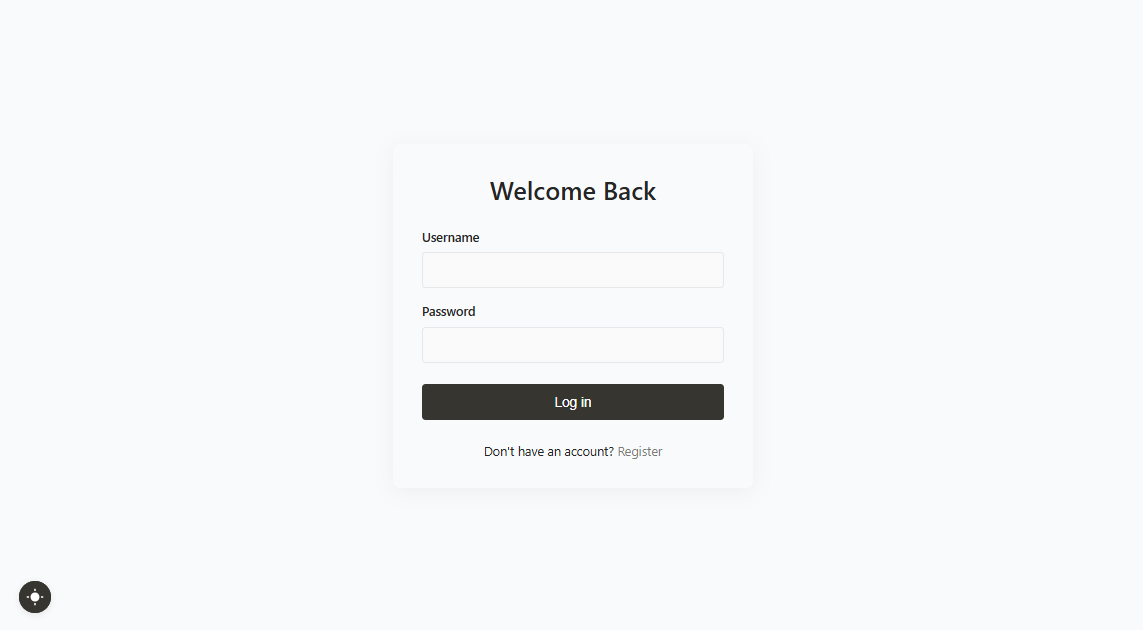
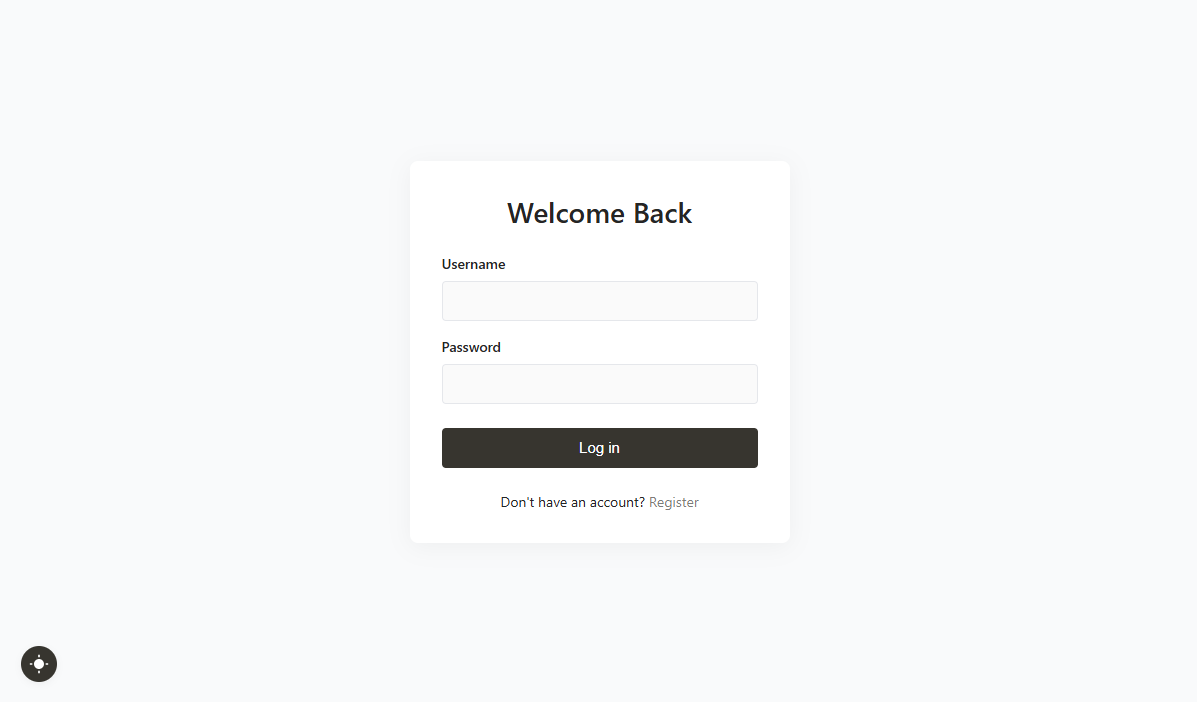
:page_facing_up: docs: update readme.

diff --git a/src/ddeutil/observe/static/css/workflow-content.css b/src/ddeutil/observe/static/css/workflow-content.css
@@ -306,30 +306,32 @@
 
                     & .history-section {
 
-                        & .history-entry {
-                            margin-bottom: 15px;
+                        & .history {
                             border: 1px solid var(--border-color);
-                            border-radius: 4px;
-                            overflow: hidden;
+                            border-radius: 6px;
+                            margin-bottom: 12px;
 
                             & .history-header {
-                                padding: 10px 15px;
+                                padding: 12px 16px;
                                 background-color: var(--bg-secondary);
+                                font-weight: 500;
                                 display: flex;
                                 justify-content: space-between;
                                 align-items: center;
+                                cursor: pointer;
 
-                                & .run-date {
-                                    font-weight: 500;
+                                & .timestamp {
+                                    font-size: 0.9rem;
+                                    color: var(--text-secondary);
                                 }
 
-                                & .run-status {
+                                & .status {
                                     padding: 4px 8px;
                                     border-radius: 4px;
                                     font-size: 0.8rem;
 
                                     &.success {
-                                        background-color: rgba(16, 185, 129, 0.1);
+                                        background-color: rgba(34, 197, 94, 0.1);
                                         color: var(--success-color);
                                     }
 
@@ -340,23 +342,40 @@
                                 }
                             }
 
-                            & .log-section {
-                                padding: 15px;
+                            & .history-details {
+                                padding: 0;
+                                max-height: 0;
+                                overflow: hidden;
+                                transition: max-height 0.3s ease, padding 0.3s ease;
 
-                                & h4 {
-                                    margin-bottom: 5px;
-                                    color: var(--text-secondary);
-                                    font-size: 0.9rem;
+                                &.open {
+                                    padding: 16px;
+                                    max-height: 500px;
                                 }
 
-                                & pre {
-                                    background-color: rgba(0, 0, 0, 0.05);
-                                    padding: 10px;
-                                    border-radius: 4px;
-                                    overflow: auto;
+                                & h4 {
+                                    font-size: 0.875rem;
+                                    font-weight: 500;
+                                    margin-bottom: 4px;
+                                }
+
+                                & .log-output {
                                     font-family: monospace;
-                                    font-size: 0.9rem;
-                                    max-height: 200px;
+                                    font-size: 0.75rem;
+                                    background-color: var(--text-log);
+                                    border-radius: 4px;
+                                    padding: 8px;
+                                    max-height: 150px;
+                                    overflow-y: auto;
+                                    white-space: pre-wrap;
+                                }
+
+                                & .stdout {
+                                    color: var(--text-primary);
+                                }
+
+                                & .stderr {
+                                    color: var(--error-color);
                                 }
                             }
                         }

diff --git a/src/ddeutil/observe/routes/workflow/templates/workflow/partials/workflow-detail.html b/src/ddeutil/observe/routes/workflow/templates/workflow/partials/workflow-detail.html
@@ -14,7 +14,7 @@
 <article class="tab-content active" id="config-tab">
     <div class="config-section">
         <div class="yaml-section">
-            <pre>wf-run-python-raise-for-job:
+            <pre>{{ workflow.name }}:
   type: Workflow
   jobs:
     first-job:
@@ -43,44 +43,49 @@
 </article>
 <article class="tab-content" id="history-tab">
     <div class="history-section">
-        <div class="history-entry">
-            <div class="history-header">
-                <span class="run-date">2025-03-03 10:15:22</span>
-                <span class="run-status error">Failed</span>
-            </div>
-            <div class="log-section">
+
+        <article class="history">
+            <header class="history-header" onclick="toggleHistoryDetails(this)">
+                <span>Run #1002</span>
+                <div class="d-flex">
+                    <span class="timestamp">2025-03-03 10:15:22</span>
+                    <span class="status error">Failed</span>
+                </div>
+            </header>
+            <div class="history-details">
                 <h4>STDOUT</h4>
-                <pre>[2025-03-03 10:15:22] INFO: Starting workflow execution
+                <pre class="log-output stdout">[2025-03-03 10:15:22] INFO: Starting workflow execution
 [2025-03-03 10:15:23] INFO: Running first-job
 [2025-03-03 10:15:24] INFO: Executing raise-error stage</pre>
-
                 <h4>STDERR</h4>
-                <pre>[2025-03-03 10:15:25] ERROR: ValueError: Testing raise error inside PyStage!!!
+                <pre class="log-output stderr">[2025-03-03 10:15:25] ERROR: ValueError: Testing raise error inside PyStage!!!
 File "/app/workflow/runner.py", line 245, in execute_stage
 result = stage.run()
 File "/app/workflow/stages.py", line 128, in run
 return exec(self.code, globals(), locals())</pre>
             </div>
-        </div>
+        </article>
 
-        <div class="history-entry">
-            <div class="history-header">
-                <span class="run-date">2025-03-02 01:00:03</span>
-                <span class="run-status error">Failed</span>
-            </div>
-            <div class="log-section">
+        <article class="history">
+            <header class="history-header" onclick="toggleHistoryDetails(this)">
+                <span>Run #1231</span>
+                <div class="d-flex">
+                    <span class="timestamp">2025-03-02 01:00:03</span>
+                    <span class="status success">Success</span>
+                </div>
+            </header>
+            <div class="history-details">
                 <h4>STDOUT</h4>
-                <pre>[2025-03-02 01:00:03] INFO: Starting workflow execution
+                <pre class="log-output stdout">[2025-03-02 01:00:03] INFO: Starting workflow execution
 [2025-03-02 01:00:04] INFO: Running first-job
 [2025-03-02 01:00:05] INFO: Executing raise-error stage</pre>
-
                 <h4>STDERR</h4>
-                <pre>[2025-03-02 01:00:06] ERROR: ValueError: Testing raise error inside PyStage!!!
+                <pre class="log-output stderr">[2025-03-02 01:00:06] ERROR: ValueError: Testing raise error inside PyStage!!!
 File "/app/workflow/runner.py", line 245, in execute_stage
 result = stage.run()
 File "/app/workflow/stages.py", line 128, in run
 return exec(self.code, globals(), locals())</pre>
             </div>
-        </div>
+        </article>
     </div>
 </article>

diff --git a/src/ddeutil/observe/static/css/base.css b/src/ddeutil/observe/static/css/base.css
@@ -13,6 +13,7 @@
     --shadow-color: rgba(15, 15, 15, 0.05);
     --text-primary: rgba(17, 24, 39, 1);
     --text-secondary: rgba(75, 85, 99, 1);
+    --text-log: rgba(0, 0, 0, 0.05);
     --bg-primary: rgba(255, 255, 255, 1);
     --bg-secondary: rgba(249, 250, 251, 1);
 
@@ -24,6 +25,8 @@
     --sidebar-collapsed-width: 60px;
     --header-height: 60px;
     --footer-height: 40px;
+    --success-color: rgba(34, 197, 94, 1);
+    --error-color: rgba(239, 68, 68, 1);
 }
 
 [data-theme="dark"] {
@@ -41,6 +44,7 @@
     --shadow-color: rgba(0, 0, 0, 0.25);
     --text-primary: rgba(229, 231, 235, 1);
     --text-secondary: rgba(156, 163, 175, 1);
+    --text-log: rgb(227 218 218 / 20%);
     --bg-primary: rgba(25, 25, 25, 1);
     --bg-secondary: rgba(40, 40, 44, 1);
 }

diff --git a/src/ddeutil/observe/static/js/workflow-events.js b/src/ddeutil/observe/static/js/workflow-events.js
@@ -33,3 +33,9 @@ document.body.addEventListener('htmx:afterSwap', function (event) {
         });
     });
 });
+
+
+function toggleHistoryDetails(header) {
+    const details = header.nextElementSibling;
+    details.classList.toggle('open');
+}

diff --git a/README.md b/README.md
@@ -48,13 +48,15 @@ authentication and workflows data.
 
 ### Login Page
 
-![Login Page](./docs/img/login-page.png?raw=true "Title")
+![Login Page](./docs/img/login-page.png?raw=true)
 
 ### Main Page
 
-```text
+![Workflow Page](./docs/img/workflow-page.png?raw=true)
 
-```
+![Workflow Detail Page](./docs/img/workflow-detail-page.png?raw=true)
+
+![Workflow Trace Page](./docs/img/workflow-trace-page.png?raw=true)
 
 ## :cookie: Configuration
 
